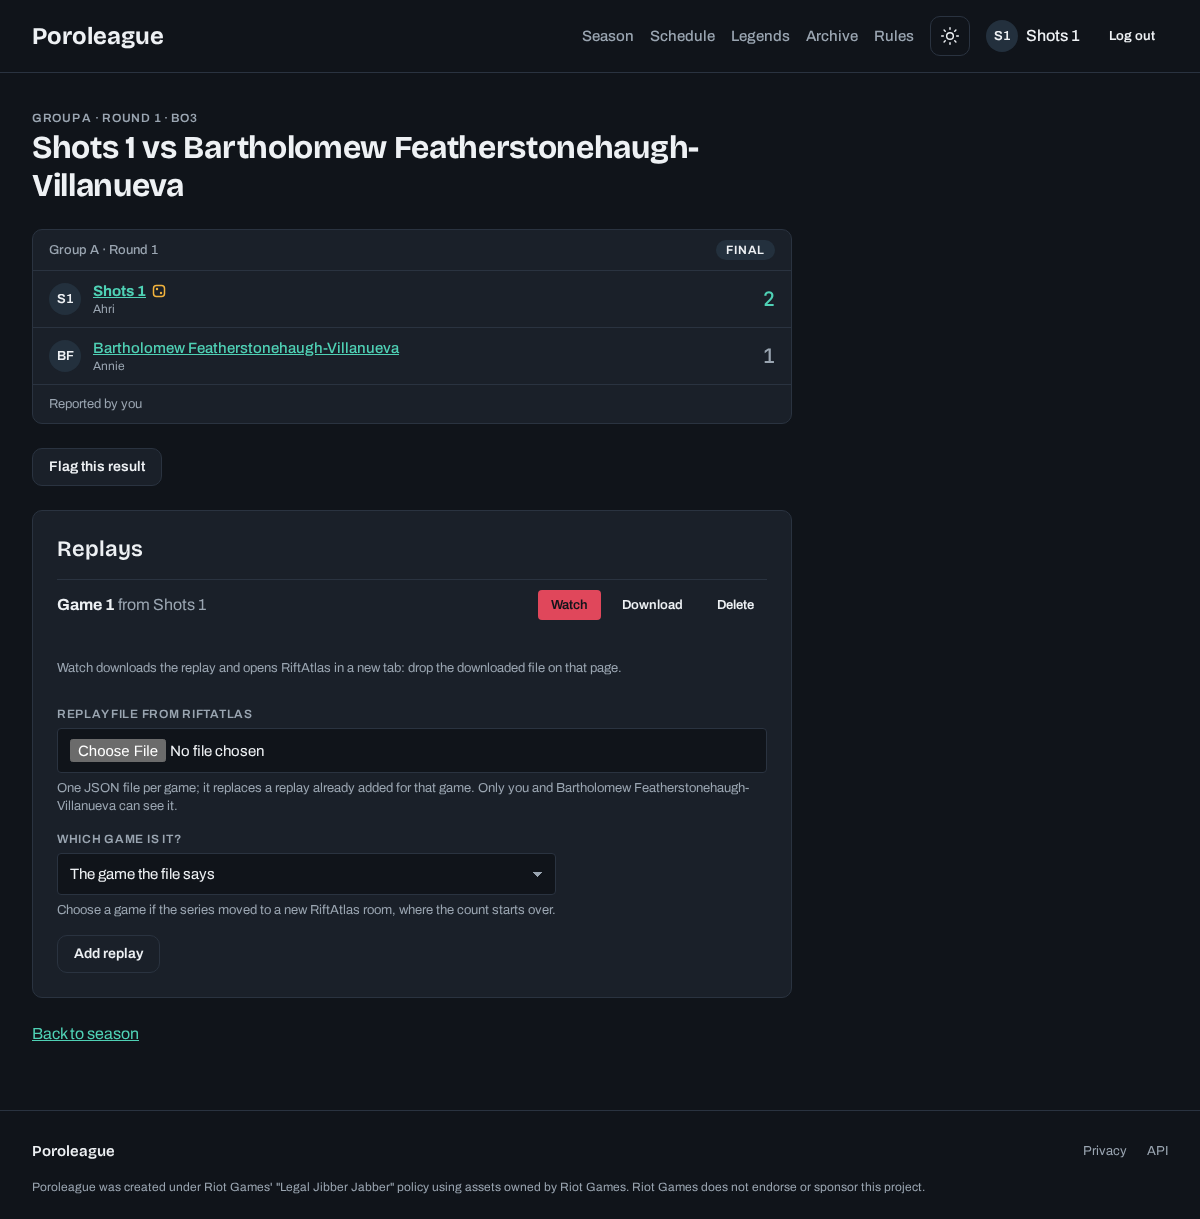
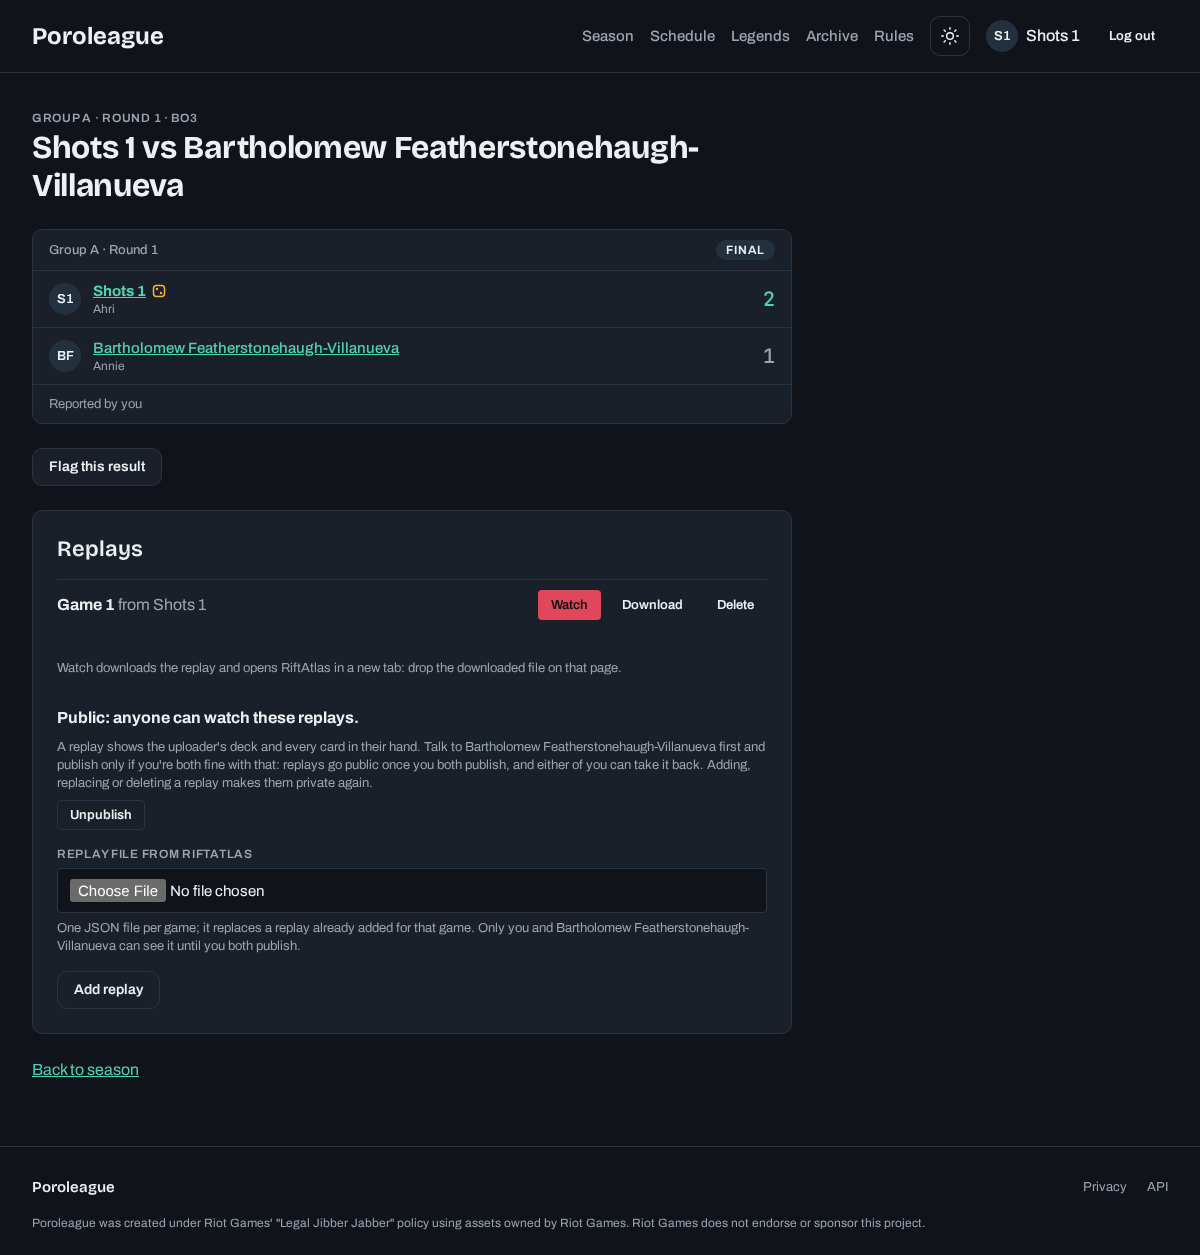
feat(replays): publish replays by both players, with a row chip
Replays go public once both players publish; rows of such matches say
Replay available. The page tells players to agree with their opponent.

diff --git a/e2e/replays.spec.ts b/e2e/replays.spec.ts
@@ -1,7 +1,7 @@
 import { expect, test, type Page } from '@playwright/test';
 import { readFileSync } from 'node:fs';
 import { replayFile } from '../src/lib/server/test/replayFile.ts';
-import { removeSeason, seedResult, seedSeason } from './db.ts';
+import { removeSeason, seedReplay, seedResult, seedSeason } from './db.ts';
 import { ORGANIZER, SEASONS, as, player, playerName } from './fixtures.ts';
 
 const slug = SEASONS.replays;
@@ -109,6 +109,64 @@ test('upload, watch, and who can see a replay', async ({ browser }) => {
 	await org.goto(`/seasons/${slug}/audit`);
 	await expect(org.getByText('Game 2 replay uploaded')).toBeVisible();
 	expect((await opponent.request.get(`${url()}/replay/1`)).status()).toBe(404);
+});
+
+test('replays go public once both players publish', async ({ browser }) => {
+	seedReplay(match, 1);
+	const publish = async (page: Page) => {
+		await page.getByRole('button', { name: 'Publish', exact: true }).click();
+		await page.getByRole('dialog').getByRole('button', { name: 'Publish', exact: true }).click();
+	};
+	const visitor = await browser.newPage();
+	const chip = visitor.getByText('Replay available');
+	const isPublic = async (yes: boolean) => {
+		await visitor.goto(url());
+		await expect(replays(visitor)).toHaveCount(yes ? 1 : 0);
+		expect((await visitor.request.get(`${url()}/replay/1`)).status()).toBe(yes ? 200 : 404);
+		await visitor.goto(`/seasons/${slug}/schedule`);
+		await expect(visitor.getByText(p1).first()).toBeVisible();
+		await expect(chip).toHaveCount(yes ? 1 : 0);
+	};
+
+	// One yes isn't enough, and the page tells each player where things stand.
+	const one = await browser.newPage(as(player('replays', 1)));
+	await one.goto(url());
+	await expect(one.getByText(`Private: only you and ${p2} can watch these replays.`)).toBeVisible();
+	await expect(one.getByText(`Talk to ${p2} first`)).toBeVisible();
+	await publish(one);
+	await expect(one.getByRole('status')).toHaveText(
+		`You said yes. The replays go public once ${p2} publishes too.`
+	);
+	await isPublic(false);
+
+	const two = await browser.newPage(as(player('replays', 2)));
+	await two.goto(url());
+	await expect(two.getByText(`${p1} wants to publish these replays.`)).toBeVisible();
+	await publish(two);
+	await expect(two.getByRole('status')).toHaveText('Published. Anyone can watch the replays now.');
+	await isPublic(true);
+
+	// A visitor watches but changes nothing.
+	await visitor.goto(url());
+	await expect(replays(visitor).getByRole('link', { name: 'Watch game 1' })).toBeVisible();
+	await expect(replays(visitor).getByRole('button')).toHaveCount(0);
+
+	// A new file is not what the two agreed to publish.
+	await upload(two, file(['Ahri, Nine-Tailed Fox', 'Annie, Dark Child']));
+	await expect(two.getByText(`Private: only you and ${p1} can watch these replays.`)).toBeVisible();
+	await isPublic(false);
+
+	// Either player can take a yes back.
+	await publish(two);
+	await one.reload();
+	await publish(one);
+	await isPublic(true);
+	await one.getByRole('button', { name: 'Unpublish' }).click();
+	await one.getByRole('dialog').getByRole('button', { name: 'Unpublish' }).click();
+	await expect(one.getByRole('status')).toHaveText(
+		`Unpublished. Only you and ${p2} see the replays.`
+	);
+	await isPublic(false);
 });
 
 test('the report form reminds players to save the replay', async ({ browser }) => {

diff --git a/src/routes/seasons/[slug]/matches/[id]/+page.server.ts b/src/routes/seasons/[slug]/matches/[id]/+page.server.ts
@@ -24,7 +24,8 @@ import {
 	deleteReplay,
 	inMatch,
 	matchReplays,
-	saveReplay
+	saveReplay,
+	setPublish
 } from '#lib/server/replays.ts';
 import { getSeason, seasonEntries } from '#lib/server/seasons.ts';
 import { cutRounds, waitingOnFlag } from '#lib/server/topCut.ts';
@@ -114,7 +115,7 @@ export const load: PageServerLoad = async (event) => {
 		legends: LEGENDS,
 		// Null: no result to have replays of, or not this viewer's to see.
 		replays:
-			match.p1Games !== null && canSeeReplays(match, viewer, organizer)
+			match.p1Games !== null && canSeeReplays(match, viewer, organizer, found.hidden)
 				? {
 						games: matchReplays(match.id).map((r) => ({
 							game: r.game,
@@ -124,7 +125,13 @@ export const load: PageServerLoad = async (event) => {
 						canUpload: playing && !p1.former && !p2.former,
 						canDelete: playing || organizer,
 						// How many games the match had, for choosing which one a file is.
-						played: match.games?.length ?? match.p1Games + (match.p2Games ?? 0)
+						played: match.games?.length ?? match.p1Games + (match.p2Games ?? 0),
+						// Who has said yes to showing them to everyone; the viewer's own side first.
+						published: playing
+							? viewer === p1.id
+								? ([match.p1PublishReplay, match.p2PublishReplay] as const)
+								: ([match.p2PublishReplay, match.p1PublishReplay] as const)
+							: null
 					}
 				: null,
 		// Only the form needs it; anyone else gets no hint of a player's last legend.
@@ -206,6 +213,25 @@ export const actions: Actions = {
 		if (error) return fail(400, { error: true, message: error });
 		const opponent = matchPlayers(match).find((p) => p.id !== user.id)!.displayName;
 		return { message: `Replay saved. Only you and ${opponent} can see it.` };
+	},
+
+	// A player's yes or no to showing the replays to everyone; it takes both.
+	publishReplays: async (event) => {
+		const user = playerAction(event);
+		const on = (await event.request.formData()).get('on') === '1';
+		const { match } = context(event);
+		const them = matchPlayers(match).find((p) => p.id !== user.id)!;
+		if (user.id !== match.p1Id && user.id !== match.p2Id)
+			return fail(403, { error: true, message: 'Only the two players can publish replays.' });
+		if (!setPublish(match, user.id, on))
+			return fail(409, { error: true, message: 'Add a replay first.' });
+		if (!on) return { message: `Unpublished. Only you and ${them.displayName} see the replays.` };
+		const theirs = them.id === match.p1Id ? match.p1PublishReplay : match.p2PublishReplay;
+		return {
+			message: theirs
+				? 'Published. Anyone can watch the replays now.'
+				: `You said yes. The replays go public once ${them.displayName} publishes too.`
+		};
 	},
 
 	deleteReplay: async (event) => {

diff --git a/src/routes/seasons/[slug]/matches/[id]/+page.svelte b/src/routes/seasons/[slug]/matches/[id]/+page.svelte
@@ -323,6 +323,48 @@
 						Watch downloads the replay and opens RiftAtlas in a new tab: drop the downloaded file on
 						that page.
 					</p>
+					{#if r.published}
+						{@const [mine, theirs] = r.published}
+						<div class="publish">
+							<p>
+								<strong>
+									{#if mine && theirs}
+										Public: anyone can watch these replays.
+									{:else if mine}
+										You said yes to publishing. Waiting for {opponent}.
+									{:else if theirs}
+										{opponent} wants to publish these replays. They go public if you publish too.
+									{:else}
+										Private: only you and {opponent} can watch these replays.
+									{/if}
+								</strong>
+							</p>
+							<p class="muted small">
+								A replay shows the uploader's deck and every card in their hand. Talk to {opponent}
+								first and publish only if you're both fine with that: replays go public once you both
+								publish, and either of you can take it back. Adding, replacing or deleting a replay makes
+								them private again.
+							</p>
+							<ConfirmButton
+								action="?/publishReplays"
+								variant="secondary"
+								small
+								label={mine ? 'Unpublish' : 'Publish'}
+								title={mine ? 'Take back publishing?' : 'Publish these replays?'}
+								confirmLabel={mine ? 'Unpublish' : 'Publish'}
+								fields={{ on: mine ? '0' : '1' }}
+							>
+								<p>
+									{#if mine}
+										Only you and {opponent} will see the replays.
+									{:else}
+										Everyone will see the uploader's deck and hand once {opponent} has published too.
+										Agreed with {opponent}?
+									{/if}
+								</p>
+							</ConfirmButton>
+						</div>
+					{/if}
 				{/if}
 				{#if r.canUpload}
 					<form method="POST" action="?/replay" enctype="multipart/form-data" class="upload">
@@ -338,7 +380,7 @@
 							/>
 							<span class="pb-hint">
 								One JSON file per game; it replaces a replay already added for that game. Only you
-								and {opponent} can see it.
+								and {opponent} can see it until you both publish.
 							</span>
 						</label>
 						<label class="pb-field">
@@ -404,6 +446,9 @@
 	.report .actions {
 		border-top: 1px solid var(--line);
 		padding-top: 24px;
+	}
+	.publish p {
+		margin: 0 0 8px;
 	}
 	.replays,
 	.upload {

diff --git a/src/lib/server/replays.ts b/src/lib/server/replays.ts
@@ -8,9 +8,14 @@ import type { Match, Tx } from '#lib/server/matches.ts';
 export const inMatch = (m: Match, playerId: string) => playerId === m.p1Id || playerId === m.p2Id;
 
 // A replay shows its uploader's deck and hand: the two players and organizers see it, everyone
-// else only once both players have published.
-export const canSeeReplays = (m: Match, viewerId: string | null, organizer = false) =>
-	(m.p1PublishReplay && m.p2PublishReplay) || organizer || (!!viewerId && inMatch(m, viewerId));
+// else only once both players have published. `hidden`: an early match nobody else knows was played.
+export const isPublic = (m: Match) => m.p1PublishReplay && m.p2PublishReplay;
+export const canSeeReplays = (
+	m: Match,
+	viewerId: string | null,
+	organizer = false,
+	hidden = false
+) => (!hidden && isPublic(m)) || organizer || (!!viewerId && inMatch(m, viewerId));
 
 // The games that have a replay, without the files.
 export const matchReplays = (matchId: number) =>
@@ -108,9 +113,16 @@ export const deleteReplay = (m: Match, actorId: string, game: number) =>
 export const setPublish = (m: Match, playerId: string, on: boolean) =>
 	db.transaction((tx) => {
 		if (!inMatch(m, playerId)) throw new Error(`${playerId} is not in match ${m.id}`);
+		// Nothing to publish; this also keeps "both published" meaning "has a public replay".
+		if (
+			on &&
+			!tx.select({ game: replays.game }).from(replays).where(eq(replays.matchId, m.id)).get()
+		)
+			return false;
 		tx.update(matches)
 			.set(playerId === m.p1Id ? { p1PublishReplay: on } : { p2PublishReplay: on })
 			.where(eq(matches.id, m.id))
 			.run();
 		log(tx, m, playerId, { replayPublished: on });
+		return true;
 	});

diff --git a/src/lib/server/replays.spec.ts b/src/lib/server/replays.spec.ts
@@ -134,13 +134,23 @@ describe('who sees replays', () => {
 			canSeeReplays(match(), null),
 			canSeeReplays(match(), 'p3', true)
 		];
+		saveReplay(match(), SINCE, 'p1', replayFile());
 		expect(sees()).toEqual([true, false, false, true]);
 		setPublish(match(), 'p1', true);
 		expect(sees()).toEqual([true, false, false, true]);
 		setPublish(match(), 'p2', true);
 		expect(sees()).toEqual([true, true, true, true]);
+		// An early match stays between its players until its week is published.
+		expect(canSeeReplays(match(), 'p3', false, true)).toBe(false);
+		expect(canSeeReplays(match(), 'p2', false, true)).toBe(true);
 		setPublish(match(), 'p1', false);
 		expect(sees()).toEqual([true, false, false, true]);
+	});
+
+	it('needs a replay to publish', () => {
+		expect(setPublish(match(), 'p1', true)).toBe(false);
+		expect(published(match())).toEqual([false, false]);
+		expect(auditLines(seasonId)).toEqual([]);
 	});
 
 	it('only a player of the match can publish', () => {

diff --git a/src/lib/matchRow.spec.ts b/src/lib/matchRow.spec.ts
@@ -141,6 +141,16 @@ describe('vsRow', () => {
 		expect(vsRow(card({ round: 4 }, c)).chips).toEqual([]);
 	});
 
+	it('a match both players published replays of gets the Replay available chip', () => {
+		const c = ctx('p3', { ...season, publishedRound: 4 });
+		const both = { ...reported, p1PublishReplay: true, p2PublishReplay: true };
+		expect(vsRow(card({ round: 4, ...both }, c)).chips).toEqual(['Replay available']);
+		expect(povRow(card({ round: 4, ...both }, c), 'p1').chips).toEqual(['Replay available']);
+		expect(vsRow(card({ round: 4, ...both, p2PublishReplay: false }, c)).chips).toEqual([]);
+		// An early match is nobody else's business yet.
+		expect(vsRow(card({ round: 5, ...both }, c)).chips).toEqual(['Early']);
+	});
+
 	it('walkover: mid "W/O", note "<name> advances"', () => {
 		const c = cardContext({ ...season, status: 'topcut' }, people, 'p1', NOW, 3);
 		const r = vsRow(card({ ...playoff, walkoverId: 'p2' }, c));

diff --git a/src/routes/seasons/[slug]/matches/[id]/replay/[game]/+server.ts b/src/routes/seasons/[slug]/matches/[id]/replay/[game]/+server.ts
@@ -1,4 +1,5 @@
 import { error } from '@sveltejs/kit';
+import { isPublished } from '#lib/league/publish.ts';
 import { currentRole } from '#lib/server/auth.ts';
 import { getMatch } from '#lib/server/matches.ts';
 import { canSeeReplays, replayGzip } from '#lib/server/replays.ts';
@@ -14,7 +15,13 @@ export const GET: RequestHandler = async (event) => {
 	const [id, game] = [Number(params.id), Number(params.game)];
 	const match = Number.isInteger(id) ? getMatch(season.id, id) : undefined;
 	const file =
-		match && canSeeReplays(match, locals.user?.id ?? null, organizer)
+		match &&
+		canSeeReplays(
+			match,
+			locals.user?.id ?? null,
+			organizer,
+			!isPublished(match, season.publishedRound)
+		)
 			? replayGzip(match.id, game)
 			: undefined;
 	if (!file) error(404, 'Replay not found');

diff --git a/e2e/db.ts b/e2e/db.ts
@@ -150,6 +150,14 @@ export const seedReplay = (matchId: number, game: number, legends = ['Ahri, Fox'
 			.run(game, `seed:${matchId}:${game}`, gzipSync(replayFile({ game, legends })), matchId)
 	);
 
+// Both players said yes: the match's replays are public.
+export const publishReplays = (matchId: number) =>
+	write((db) =>
+		db
+			.prepare('update matches set p1_publish_replay = 1, p2_publish_replay = 1 where id = ?')
+			.run(matchId)
+	);
+
 // A season whose group stage is over: groups of three (two by default), every match played
 // (1 > 2 > 3, 4 > 5 > 6, …) and published, status topcut, top 2 per group.
 export const seedFinishedGroups = (

diff --git a/e2e/mobile.spec.ts b/e2e/mobile.spec.ts
@@ -2,6 +2,7 @@
 // anything cut off at the right edge. Controls under 44 px tall are warnings, logged per page.
 import { expect, test, type Page } from '@playwright/test';
 import {
+	publishReplays,
 	removeSeason,
 	renamePlayer,
 	seedEmptySeason,
@@ -29,6 +30,7 @@ test.beforeAll(() => {
 	renamePlayer(player('mobile', 2), 'Bartholomew Featherstonehaugh-Villanueva');
 	seedResult(reported, 2, 1);
 	seedReplay(reported, 1);
+	publishReplays(reported);
 	seedResult(flagged, 0, 2, {
 		flag: 'We played 2-1 but the second game was conceded after a misclick, so this needs a look.'
 	});

diff --git a/src/lib/matchCard.ts b/src/lib/matchCard.ts
@@ -23,6 +23,8 @@ export type CardMatch = {
 	stage?: 'group' | 'playoff';
 	slot?: number | null;
 	walkoverId?: string | null;
+	p1PublishReplay?: boolean;
+	p2PublishReplay?: boolean;
 };
 type Person = {
 	playerId: string;
@@ -141,6 +143,8 @@ export function matchCard(m: CardMatch, c: CardContext) {
 		week,
 		early,
 		walkover,
+		// Both players published, which they can only do once the match has a replay.
+		replay: !early && !!m.p1PublishReplay && !!m.p2PublishReplay,
 		props: {
 			head:
 				m.stage === 'playoff'

diff --git a/shots/pages.spec.ts b/shots/pages.spec.ts
@@ -2,6 +2,7 @@
 import { test } from '@playwright/test';
 import {
 	freezeTimes,
+	publishReplays,
 	removeSeason,
 	renamePlayer,
 	seedEmptySeason,
@@ -32,6 +33,7 @@ test('a season in play', async ({ browser }) => {
 	renamePlayer(player('shots', 2), 'Bartholomew Featherstonehaugh-Villanueva');
 	seedResult(reported, 2, 1);
 	seedReplay(reported, 1);
+	publishReplays(reported);
 	seedResult(flagged, 0, 2, {
 		flag: 'We played 2-1 but the second game was conceded after a misclick, so this needs a look.'
 	});

diff --git a/src/lib/matchRow.ts b/src/lib/matchRow.ts
@@ -9,7 +9,9 @@ const chips = (c: Card) =>
 		? ['Holiday revoked']
 		: c.early
 			? ['Early']
-			: [];
+			: c.replay
+				? ['Replay available']
+				: [];
 const onHoliday = (tag: string | null) => (tag === 'On holiday' ? tag : null);
 const canReport = (c: Card) => c.props.link.label === 'Report';
 
